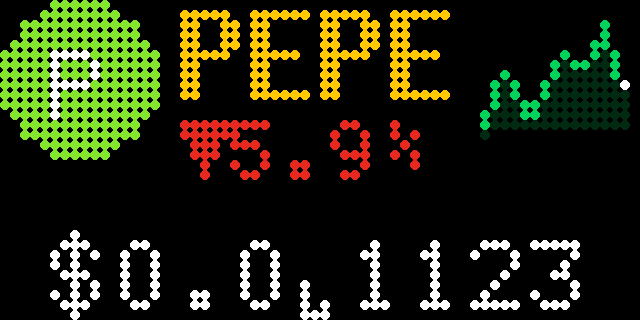
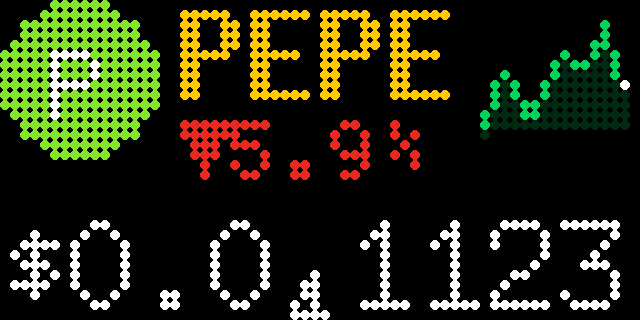
Full-size price again; small summary slide before and after the coins
- Classic coin screen: price back to full size (7x13); the chart stays at
  its smaller size.
- Summary slide ("PRICES @ 08:00" and the coins in rotation) is all in the
  small 4x6 font, so the @ fits and up to 4 lines of symbols show (all 10
  default coins). It now appears both before and after the coins; while
  prices are stale, the NO NETWORK? notice takes both places.

Claude-Session: https://claude.ai/code/session_01CrJip9iJt4GpEiYUED5guG

diff --git a/render.py b/render.py
@@ -296,8 +296,8 @@ class Renderer:
             sx = max(end1, end2) + 2
             # smaller chart, top-right, so the left column breathes
             self._sparkline(img, asset.get("sparkline", []), (sx, 2, self.w - 2, 12))
-            # a size smaller than before, sitting lower: clear space under the change line
-            font, text = self._fit_text(prices, [f["6x12"], f["6x10"], f["5x8"]], self.w)
+            # price at full size, at the very bottom
+            font, text = self._fit_text(prices, [f["7x13"], f["6x12"], f["5x8"]], self.w)
             font.draw(img, (self.w - font.width(text)) // 2, self.h - 1, text, PRICE)
         return img
 
@@ -1092,18 +1092,15 @@ class Renderer:
         return self.stale_mark(img) if stale else img
 
     def prices_header(self, when, symbols):
-        """Before the coins: when the prices were fetched and which coins follow, e.g.
-        PRICES @ 08:00 / BTC ETH ADA SNEK / PEPE NIGHT +3."""
+        """Before and after the coins: when the prices were fetched and which coins are in
+        the rotation, all in the small font, e.g. PRICES @ 08:00 / BTC ETH ADA SNEK / ..."""
         img = self._base()
-        f = self.fonts
-        label, stamp = "PRICES @", f"{when.hour:02d}:{when.minute:02d}"
-        tf = f["5x8"]
-        if tf.width(f"{label} {stamp}") > 64:
-            label = "PRICES"  # 5x8 has no room for the "@" too
-        x = (64 - tf.width(f"{label} {stamp}")) // 2
-        x = tf.draw(img, x, 8, label + " ", DIM_TEXT)
-        tf.draw(img, x, 8, stamp, PRICE)
-        small = f["4x6"]
+        small = self.fonts["4x6"]
+        label, stamp = "PRICES @ ", f"{when.hour:02d}:{when.minute:02d}"
+        x = (64 - small.width(label + stamp)) // 2
+        x = small.draw(img, x, 5, label, DIM_TEXT)
+        small.draw(img, x, 5, stamp, PRICE)
+        rows = 4  # 6-pixel lines under the title
         lines, line, shown = [], "", 0
         for sym in symbols:
             cand = f"{line} {sym}".strip()
@@ -1111,23 +1108,20 @@ class Renderer:
                 line, shown = cand, shown + 1
                 continue
             lines.append(line)
-            line = sym
-            shown += 1
-            if len(lines) == 3:
-                shown -= 1
+            if len(lines) == rows:
+                line = ""
                 break
-        if line and len(lines) < 3:
+            line, shown = sym, shown + 1
+        if line and len(lines) < rows:
             lines.append(line)
         left = len(symbols) - shown
         if left > 0:  # make room for "+N" on the last line
-            last, more = lines[-1], f"+{left}"
-            while last and small.width(f"{last} {more}") > 63:
-                last = last.rsplit(" ", 1)[0] if " " in last else ""
-                left += 1
-                more = f"+{left}"
-            lines[-1] = f"{last} {more}".strip()
-        for i, txt in enumerate(lines[:3]):
-            small.draw(img, (64 - small.width(txt)) // 2, 17 + i * 7, txt, SYMBOL)
+            last = lines[-1]
+            while last and small.width(f"{last} +{left}") > 63:
+                last, left = (last.rsplit(" ", 1)[0] if " " in last else ""), left + 1
+            lines[-1] = f"{last} +{left}".strip()
+        for i, txt in enumerate(lines):
+            small.draw(img, (64 - small.width(txt)) // 2, 12 + i * 6, txt, SYMBOL)
         return self._place(img)
 
     def stale_notice(self, when, reason=""):

diff --git a/tests/test_focus_list.py b/tests/test_focus_list.py
@@ -368,7 +368,7 @@ def test_stale_prices_get_a_dated_notice_first(monkeypatch):
     monkeypatch.setattr(t.renderer, "asset", lambda a, stale=False: None)
     screens = t.coin_screens()
     screens[0]()
-    assert seen and seen[0][1] == "NO NETWORK?" and len(screens) == len(SYMS) + 1
+    assert seen and seen[0][1] == "NO NETWORK?" and len(screens) == len(SYMS) + 2  # before and after
 
 
 def test_no_header_before_the_first_fetch():
@@ -399,7 +399,9 @@ def test_live_prices_get_a_header_with_time_and_symbols(monkeypatch):
     monkeypatch.setattr(t.renderer, "asset", lambda a, stale=False: None)
     screens = t.coin_screens()
     screens[0]()
-    assert seen == [[s.upper() for s in SYMS]] and len(screens) == len(SYMS) + 1
+    assert seen == [[s.upper() for s in SYMS]] and len(screens) == len(SYMS) + 2  # before and after
+    screens[-1]()
+    assert len(seen) == 2
 
 
 def test_prices_header_fits_and_counts_the_rest():
@@ -412,9 +414,15 @@ def test_prices_header_fits_and_counts_the_rest():
     small.draw = lambda img, x, b, txt, c: (drawn.append((x, txt)), real(img, x, b, txt, c))[1]
     syms = ["BTC", "ETH", "ADA", "LINK", "HBAR", "PEPE", "DOGE", "SNEK", "SOL", "NIGHT", "XRP"]
     img = r.prices_header(datetime(2026, 11, 4, 8, 0), syms)
-    assert img.size == (64, 32) and len(drawn) == 3
+    assert img.size == (64, 32)
     assert all(x >= 0 and x + small.width(txt) <= 64 for x, txt in drawn)
-    shown = sum(len([w for w in txt.split() if not w.startswith("+")]) for _, txt in drawn)
-    more = int(drawn[-1][1].split("+")[-1])
-    assert shown + more == len(syms)
+    lines = [txt for _, txt in drawn[2:]]  # after the title's two parts
+    words = " ".join(lines).split()
+    assert [w for w in words if not w.startswith("+")] == syms  # all 11 fit in 4 lines
+    many = syms + ["AVAX", "DOT", "UNI", "AAVE", "SUI", "TAO", "ONDO", "ARB"]
+    drawn.clear()
+    r.prices_header(datetime(2026, 11, 4, 8, 0), many)
+    lines = [txt for _, txt in drawn[2:]]
+    shown = sum(len([w for w in t.split() if not w.startswith("+")]) for t in lines)
+    assert len(lines) == 4 and shown + int(lines[-1].split("+")[-1]) == len(many)
 

diff --git a/ticker.py b/ticker.py
@@ -832,14 +832,17 @@ class Ticker:
         starred_ids = {a["id"] for a in starred}
         out = []
         # prices are old (offline or the API failing): say so, and from when, before the coins
+        summary = None  # shown before the coins and again after them
         if self.stale and self.stale_since and coins:
             when = datetime.fromtimestamp(self.stale_since, self.tz)
-            out.append(lambda when=when: (self.renderer.stale_notice(when, self.error_reason()),
-                                          max(3.0, sleep)))
-        elif coins and self.price_time():  # live: when they were fetched, and what follows
+            summary = lambda when=when: (self.renderer.stale_notice(when, self.error_reason()),
+                                         max(3.0, sleep))
+        elif coins and self.price_time():  # live: when they were fetched, and which coins
             syms = [a["symbol"] for a in coins]
-            out.append(lambda when=self.price_time(), syms=syms: (
-                self.renderer.prices_header(when, syms), max(3.0, sleep)))
+            summary = lambda when=self.price_time(), syms=syms: (
+                self.renderer.prices_header(when, syms), max(3.0, sleep))
+        if summary:
+            out.append(summary)
 
         # In Focus mode every coin shown is starred, so big + regular screens doubled each
         # coin; there the big screen stands alone and gets the full time per coin.
@@ -864,6 +867,8 @@ class Ticker:
             for i in range(0, len(coins), n):
                 out.append(lambda page=coins[i:i + n]: (
                     self.renderer.list_page(page, rows=n, stale=self.stale), self.cfg.list_page_seconds))
+        if summary:
+            out.append(summary)
         return out
 
     def run(self):

diff --git a/tests/test_ticker.py b/tests/test_ticker.py
@@ -55,7 +55,7 @@ def test_normal_refresh(http, ok):
     assert [a["symbol"] for a in t.assets] == ["BTC", "ETH", "ADA"]
     assert not t.stale and t.failures == 0
     t.step()
-    assert len(t.display.frames) == 1 + 3  # the "PRICES 08:00" header, then the 3 coins
+    assert len(t.display.frames) == 1 + 3 + 1  # "PRICES @ 08:00" summary, 3 coins, summary again
     assert not any(has_stale_marker(f) for f in t.display.frames)
 
 
